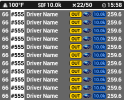
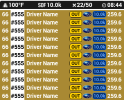
Added option to highlight the player row with a bright background color

diff --git a/Plugin/SettingsControl.xaml b/Plugin/SettingsControl.xaml
@@ -117,6 +117,13 @@
                             Show car class header*
                         </styles:SHToggleCheckbox>
 
+                        <styles:SHToggleCheckbox 
+                            ToolTip="Highlight the player row with a bright background color" 
+                            HorizontalAlignment="Left" Margin="0,0,4,8"
+                            IsChecked="{Binding Plugin.Modules[StandingsModule].Settings.HighlightPlayerRow, Mode=TwoWay, UpdateSourceTrigger=PropertyChanged}">
+                            Highlight player row
+                        </styles:SHToggleCheckbox>
+
                         <StackPanel Orientation="Horizontal">
                             <Label Content="Columns to show in race*" Margin="0,0,0,0" Width="180"/>
 
@@ -224,6 +231,13 @@
                             HorizontalAlignment="Left" Margin="0,0,4,8"
                             IsChecked="{Binding Plugin.Modules[RelativeModule].Settings.CarLogoVisible, Mode=TwoWay, UpdateSourceTrigger=PropertyChanged}">
                             Show car logo
+                        </styles:SHToggleCheckbox>
+
+                        <styles:SHToggleCheckbox 
+                            ToolTip="Highlight the player row with a bright background color" 
+                            HorizontalAlignment="Left" Margin="0,0,4,8"
+                            IsChecked="{Binding Plugin.Modules[RelativeModule].Settings.HighlightPlayerRow, Mode=TwoWay, UpdateSourceTrigger=PropertyChanged}">
+                            Highlight player row
                         </styles:SHToggleCheckbox>
 
                         <StackPanel Orientation="Horizontal">

diff --git a/Overlays/benofficial2 - iRacing Relative/JavascriptExtensions/Relative.js b/Overlays/benofficial2 - iRacing Relative/JavascriptExtensions/Relative.js
@@ -262,7 +262,8 @@ function getRelativeGapToPlayer(index)
 
 function getRelativeTextColor(index)
 {
-    if (index == 0) return '#FFEBAE00';
+    const highlight = isnull($prop('benofficial2.Relative.HighlightPlayerRow'), false)
+    if (!highlight && index == 0) return '#FFEBAE00';
     if (!isRace()) return 'White';
 
     let lap;

diff --git a/Plugin/Modules/Standings.cs b/Plugin/Modules/Standings.cs
@@ -44,6 +44,7 @@ namespace benofficial2.Plugin
         public bool BestVisible { get; set; } = true;
         public bool LastVisible { get; set; } = true;
         public int AlternateRowBackgroundColor { get; set; } = 5;
+        public bool HighlightPlayerRow { get; set; } = true;
         public int HeaderOpacity { get; set; } = 90;
         public int BackgroundOpacity { get; set; } = 7;
     }
@@ -140,6 +141,7 @@ namespace benofficial2.Plugin
             plugin.AttachDelegate(name: $"Standings.BestVisible", valueProvider: () => BestVisible);
             plugin.AttachDelegate(name: $"Standings.LastVisible", valueProvider: () => LastVisible);
             plugin.AttachDelegate(name: "Standings.AlternateRowBackgroundColor", valueProvider: () => Settings.AlternateRowBackgroundColor);
+            plugin.AttachDelegate(name: "Standings.HighlightPlayerRow", valueProvider: () => Settings.HighlightPlayerRow);
             plugin.AttachDelegate(name: "Standings.HeaderOpacity", valueProvider: () => Settings.HeaderOpacity);
             plugin.AttachDelegate(name: "Standings.BackgroundOpacity", valueProvider: () => Settings.BackgroundOpacity);
 

diff --git a/Plugin/Modules/Relative.cs b/Plugin/Modules/Relative.cs
@@ -33,6 +33,7 @@ namespace benofficial2.Plugin
         public int HeaderOpacity { get; set; } = 90;
         public bool CarLogoVisible { get; set; } = true;
         public int AlternateRowBackgroundColor { get; set; } = 5;
+        public bool HighlightPlayerRow { get; set; } = true;
         public int BackgroundOpacity { get; set; } = 60;
     }
 
@@ -99,6 +100,7 @@ namespace benofficial2.Plugin
             plugin.AttachDelegate(name: "Relative.HeaderOpacity", valueProvider: () => Settings.HeaderOpacity);
             plugin.AttachDelegate(name: "Relative.CarLogoVisible", valueProvider: () => Settings.CarLogoVisible);
             plugin.AttachDelegate(name: "Relative.AlternateRowBackgroundColor", valueProvider: () => Settings.AlternateRowBackgroundColor);
+            plugin.AttachDelegate(name: "Relative.HighlightPlayerRow", valueProvider: () => Settings.HighlightPlayerRow);
             plugin.AttachDelegate(name: "Relative.BackgroundOpacity", valueProvider: () => Settings.BackgroundOpacity);
 
             InitRelative(plugin, "Ahead", Ahead.Rows, RelativeAhead.MaxRows);
